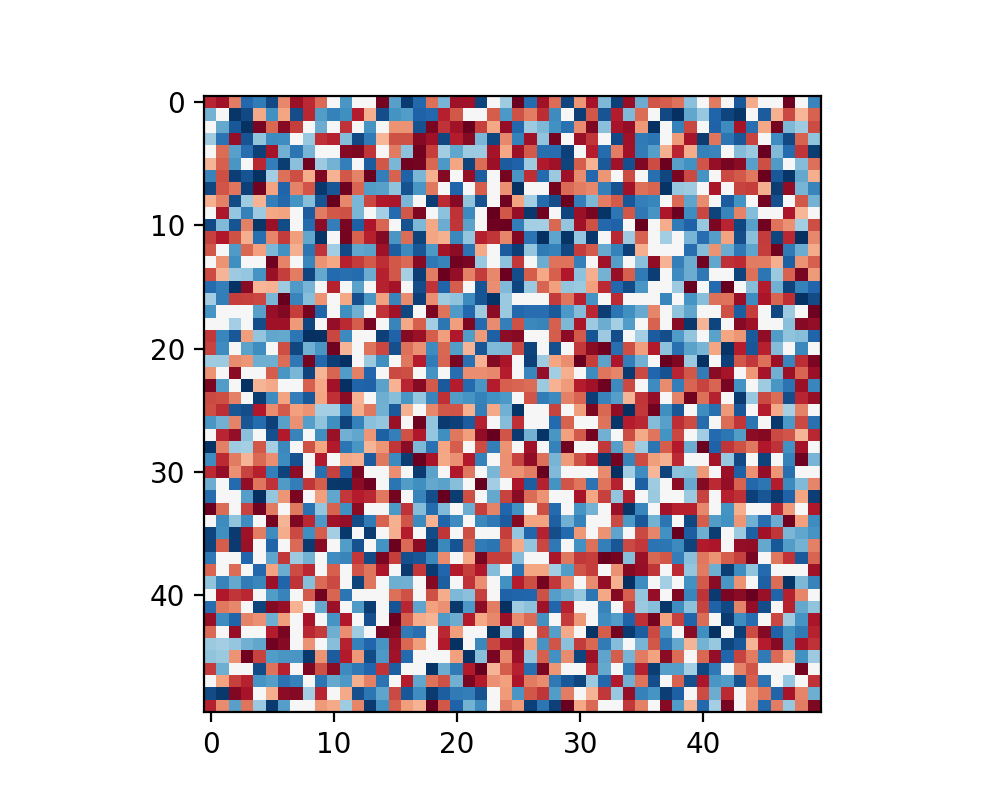
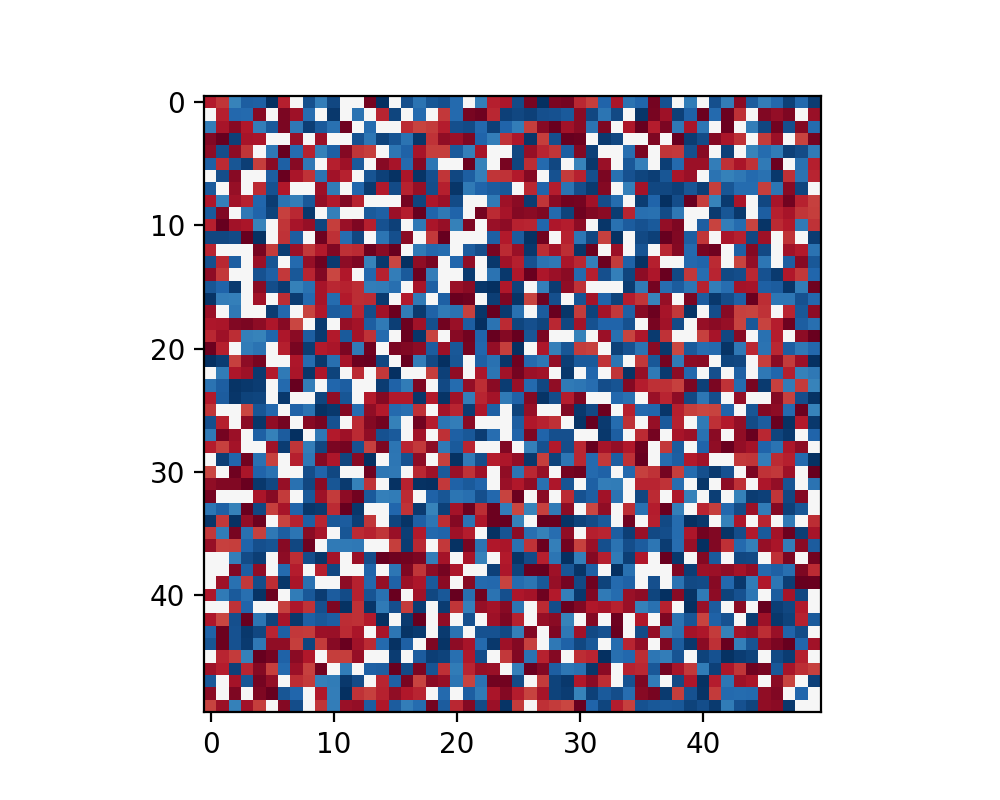
updated heatmep scale

diff --git a/util.py b/util.py
@@ -37,16 +37,16 @@ def plot_map(pop, nx, st, saving=False):
 
 def heatmap_scaler(pop):
     '''
-    Helper function to put the ID strength of different group to one scale: -1 to 5.
+    Helper function to put the ID strength of different group to one scale: -1 to 11.
     Args:
     pop(2D array): the population to plot, 0-Group ID, 1-Type, 2-Current ID strength, 3-Future ID strength
     Returns:
-    scaled_pop(2D array): 0-Group, 2-Current ID strength, 2-Future ID strength, ID strength scale: -1 to 5
+    scaled_pop(2D array): 0-Group, 2-Current ID strength, 2-Future ID strength, ID strength scale: -1 to 11
     '''
     scaled_pop = np.copy(pop[:,[0, 2, 3]])
-    scaled_pop[:, 1] = scaled_pop[:, 0] * 4 + scaled_pop[:, 1]
-    scaled_pop[:, 2] = scaled_pop[:, 0] * 4 + scaled_pop[:, 2]
-    scaled_pop[scaled_pop[:, 0]==2] = 2
+    scaled_pop[:, 1] = scaled_pop[:, 0] * 10 + scaled_pop[:, 1]
+    scaled_pop[:, 2] = scaled_pop[:, 0] * 10 + scaled_pop[:, 2]
+    scaled_pop[scaled_pop[:, 0]==2] = 5
 
     return scaled_pop
 
